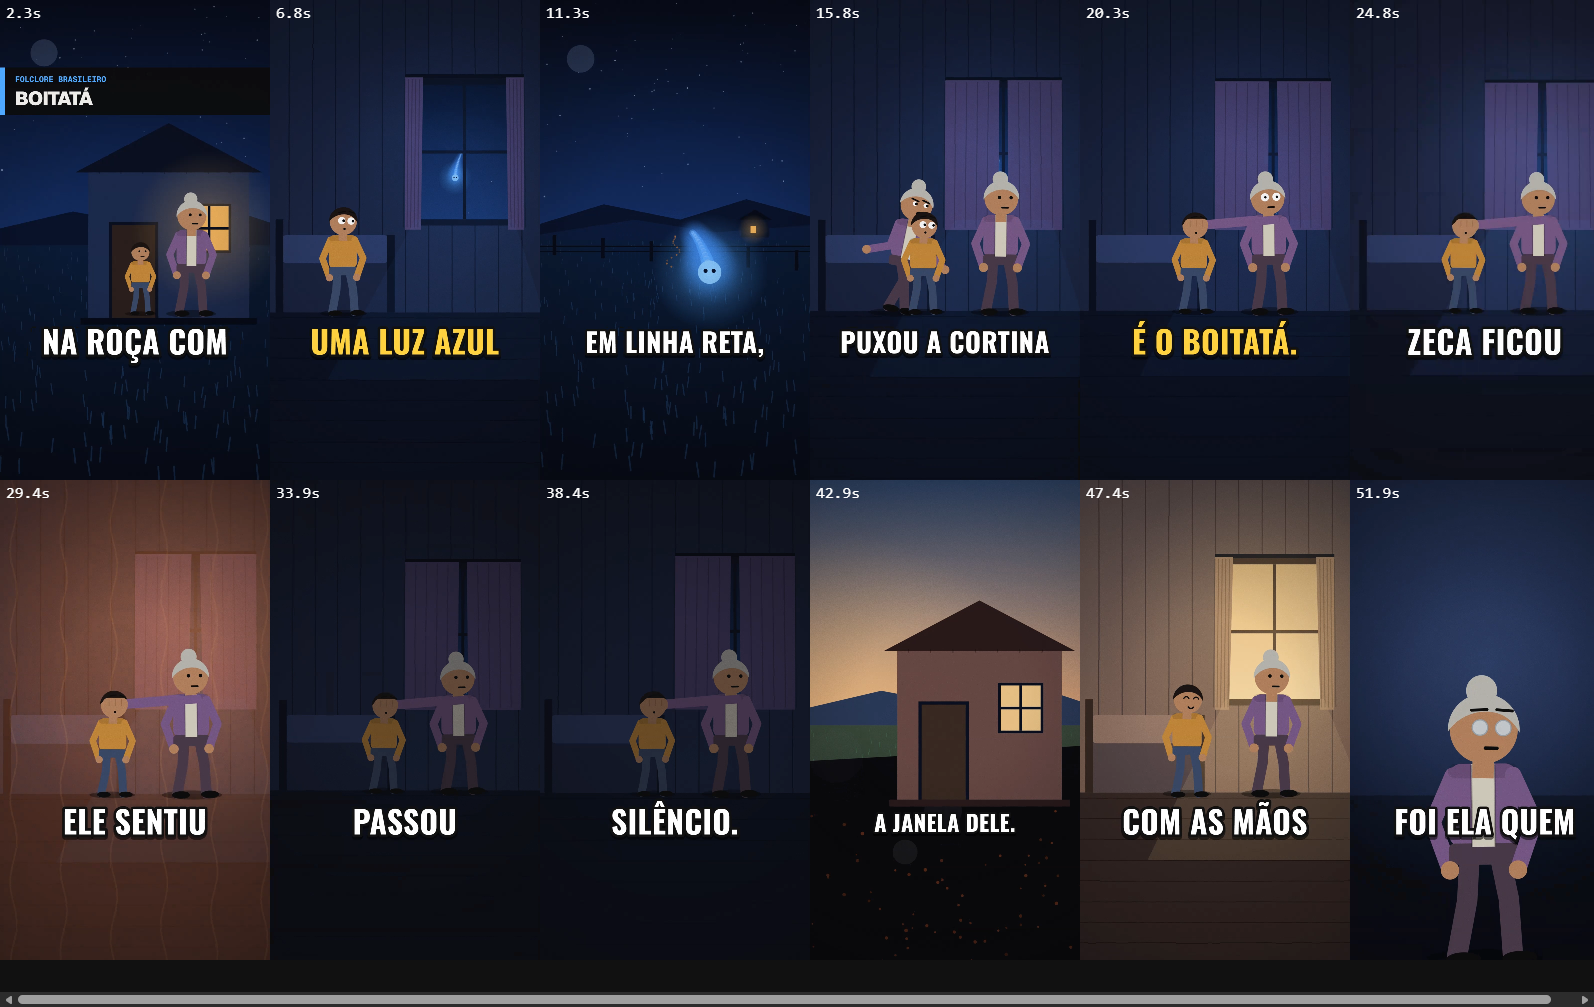
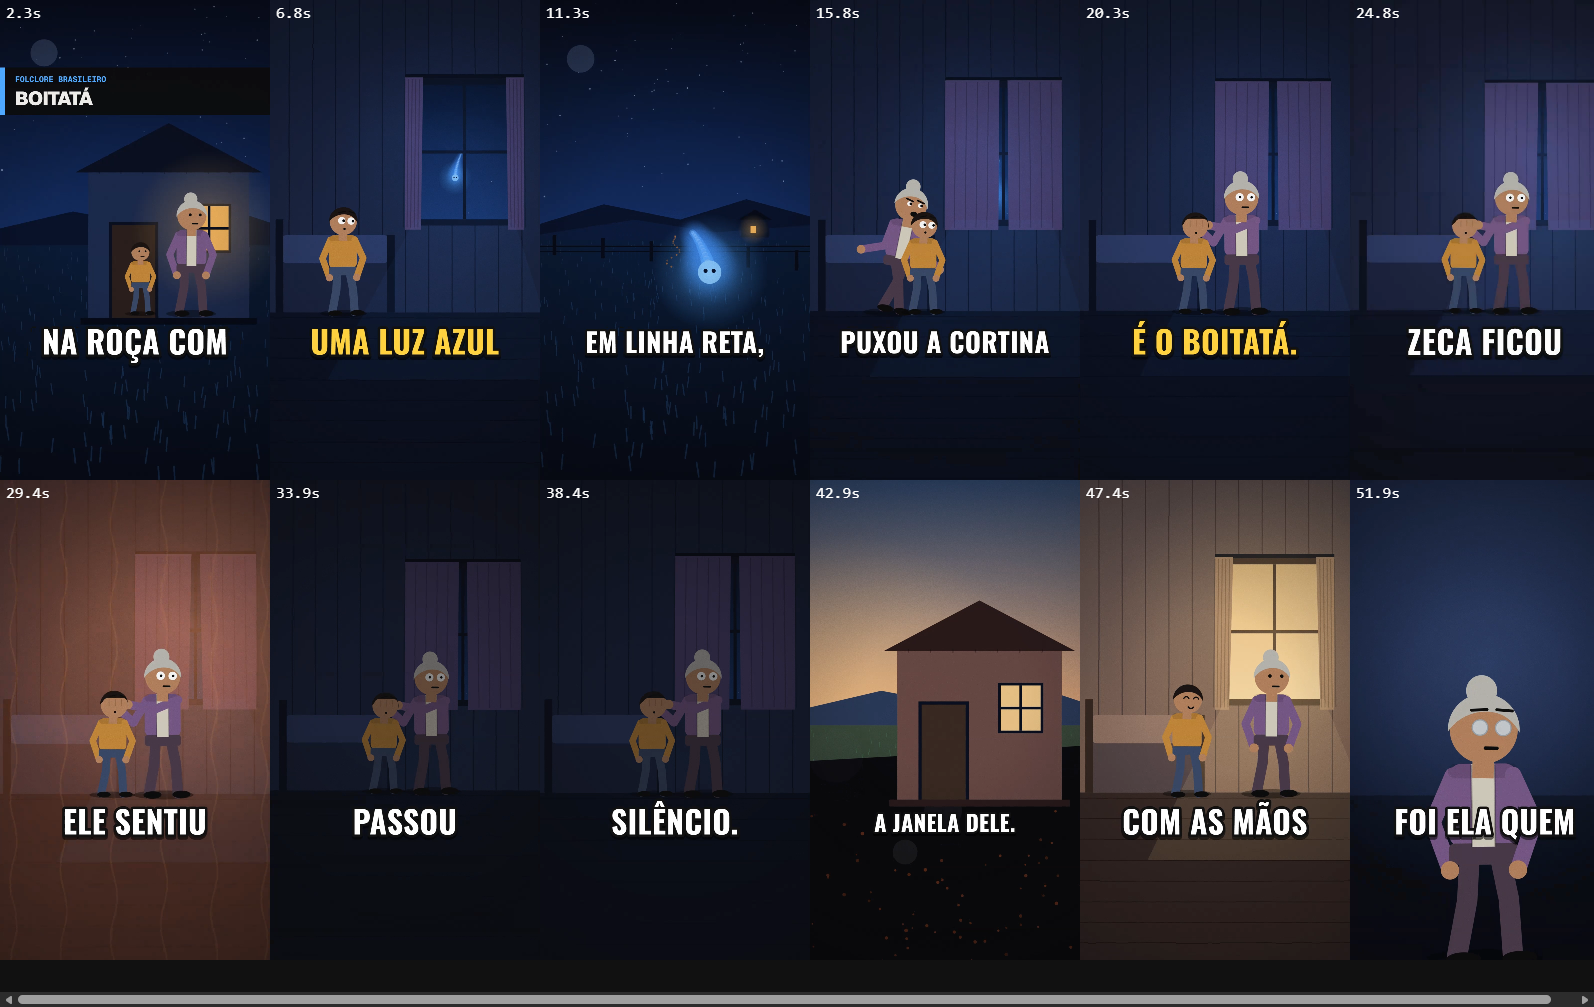
Boitata: corrige avo duplicada/4 bracos (pose maosOlhos, uma avo por cena)

diff --git a/Conteudo_Bit/Producao/serie/contos.js b/Conteudo_Bit/Producao/serie/contos.js
@@ -98,7 +98,7 @@
   OBJETOS.maos_olhos = (g, o, u) => { // mãos da avó cobrindo os olhos de quem está em (o.x, o.escala); braços vêm de trás (o.lado = 1 direita, -1 esquerda)
     const k = out(clamp(u / 0.35)), e = o.escala || 1, lado = o.lado || 1, cx = o.x * W + 16 * e, cy = GY + (o.y || 0) - 472 * e, sl = o.manga || '#7A5A8A', pele = o.pele || '#B98560';
     g.save(); g.globalAlpha = k; g.translate(lado * (1 - k) * 60, 0);
-    for (const dx of [-24, 24]) { const om = o.ombro ? [o.ombro[0] + dx * 1.6, o.ombro[1]] : [cx + lado * 210 * e + dx * e * 1.4, cy + 190 * e]; line(g, cx + dx * e, cy + 4 * e, om[0], om[1], sl, 46 * e); }
+    if (!o.semBraco) for (const dx of [-24, 24]) { const om = o.ombro ? [o.ombro[0] + dx * 1.6, o.ombro[1]] : [cx + lado * 210 * e + dx * e * 1.4, cy + 190 * e]; line(g, cx + dx * e, cy + 4 * e, om[0], om[1], sl, 46 * e); }
     rrect(g, cx - 66 * e, cy - 34 * e, 132 * e, 70 * e, 30 * e, pele); for (let i = 1; i < 4; i++) line(g, cx - 66 * e + i * 33 * e, cy - 24 * e, cx - 66 * e + i * 33 * e, cy + 8 * e, 'rgba(0,0,0,0.18)', 3);
     g.restore();
   };
@@ -180,5 +180,6 @@
     const a = c.novo === false ? 0 : 1; if (a) { botao(g, 540, 430, 46, '13', true, t); glow(g, 540, 430, 520, '#FFB02A', 0.35 * (0.7 + 0.3 * Math.sin(t * 4))); } vinheta(g, 0.5);
   };
   POSES.curioso = t => ({ al: [-8, 195], ar: [8, 195], fl: [-30, 235], fr: [30, 235], olho: 'grande', olhar: 10, boca: 'pequena', sobr: 0.9, cabeca: 0.06 });
+  POSES.maosOlhos = t => ({ al: [-131, 17], ar: [-200, 17], fl: [-30, 235], fr: [30, 235], olho: 'fixo', boca: 'reta', sobr: 0, cabeca: 0.03 }); // avó com os dois braços esticados até os olhos de quem está à esquerda (par com o objeto maos_olhos semBraco)
   POSES.cega = t => ({ al: [-8, 195], ar: [8, 195], fl: [-30, 235], fr: [30, 235], olho: 'cego', boca: 'reta', sobr: 0.2, cabeca: 0.04 });
 })();
